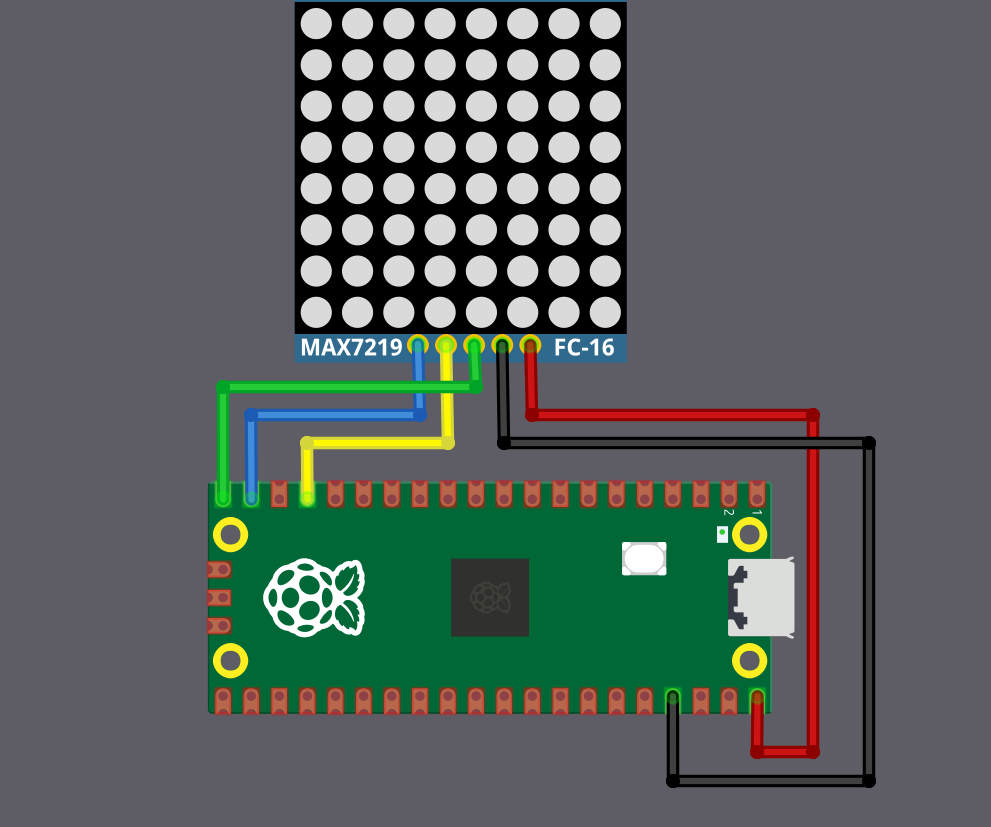
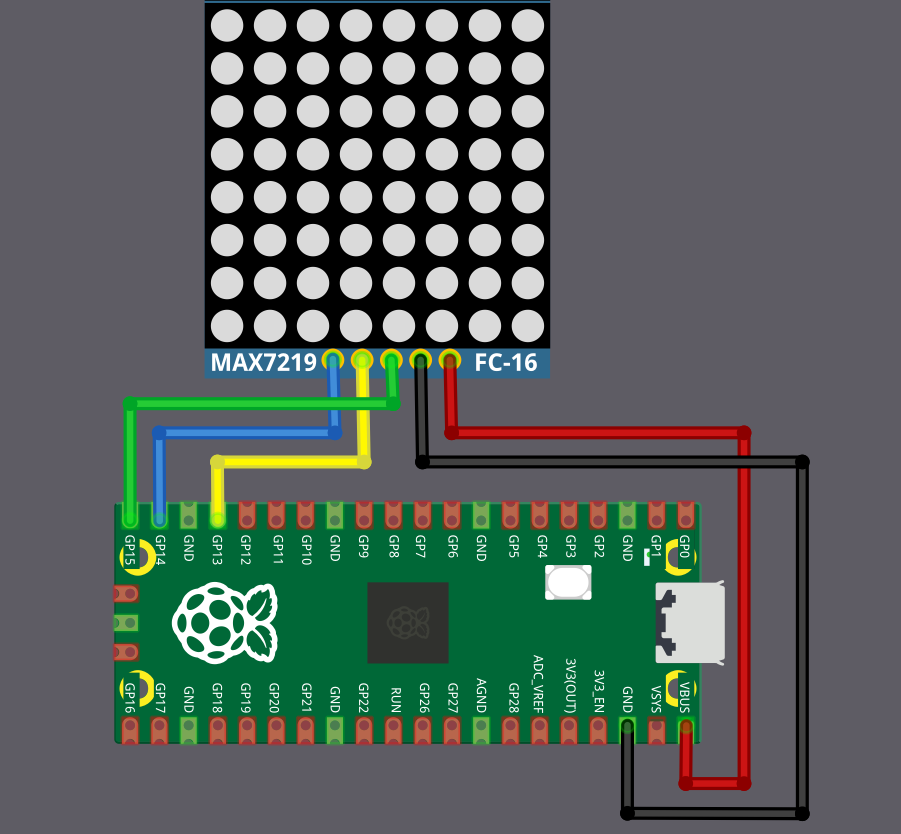
circuit update to include pico2 pin labels

diff --git a/src/sdcard/index.md b/src/sdcard/index.md
@@ -1,35 +1,35 @@
 # SD Card (SDC/MMC)
 
-In this section, we will explore how to use the SD Card reader module. Depending on your project, you can use the SD card to store collected data from sensors, save game ROMs and progress, or store other types of information.
-
+Sooner or later, you may want to store data that does not fit in flash memory. This could be sensor logs, configuration files, game assets, or anything else that needs to survive a power cycle. One of the most practical ways to do this is by using an SD card. In this section, we are going to learn how to use an SD card module with the Raspberry Pi Pico.
  
-## MMC
+## MMC (MultiMediaCard)
 
-The MultiMediaCard (MMC) was introduced as an early type of flash memory storage, preceding the SD Card. It was commonly used in devices such as camcorders, digital cameras, and portable music players. MMCs store data as electrical charges in flash memory cells, unlike optical disks, which rely on laser-encoded data on reflective surfaces.
+The MultiMediaCard (MMC) was introduced as an early type of flash memory storage, preceding the SD Card. It was commonly used in devices such as camcorders, digital cameras, and portable music players. 
+
+Like modern flash storage, MMC stores data as electrical charge in flash memory cells. This is very different from optical media such as CDs or DVDs, which store data as physical marks read by a laser.
+
+Although MMC cards themselves are mostly obsolete today, they are still relevant because SD cards inherited many ideas from MMC.
 
 ## SD (Secure Digital) Card
 
-The Secure Digital Card (SDC), commonly referred to as an SD Card, is an evolution of the MMC. SD Cards are widely used as external storage in electronic devices such as cameras, smartphones.  A smaller variant, the microSD card, is commonly used in smartphones, drones, and other devices.
+The Secure Digital Card, usually called an SD card, built on the ideas of MMC and expanded them. SD cards became extremely popular and are now used in cameras, embedded systems, and single board computers. There is a smaller variant called the microSD card that is typically used in microcontroller projects.
 
 <img style="display: block; margin: auto;" alt="SD cards" src="./images/sd-cards.png"/>
 <p style="text-align: center; font-size: smaller; margin-top: 5px;">
 Image credit: Based on <a href="https://en.wikipedia.org/wiki/File:SD_Cards.svg">SD card</a> by <a href="https://commons.wikimedia.org/wiki/User:Tkgd2007">Tkgd2007</a>, licensed under the GFDL and CC BY-SA 3.0, 2.5, 2.0, 1.0.
 </p>
 
-SD cards read and write data in blocks, typically 512 bytes in size, allowing them to function as block devices; this makes SD cards behave much like hard drives.
-
-## Protocol
-To communicate with an SD card, we can use the SD Bus protocol, SPI protocol, or UHS-II Bus protocol. The Raspberry Pi (but not the Raspberry Pi Pico) uses the SD Bus protocol, which is more complex than SPI. The full specs of the SD Bus protocol are not accessible to the public and are only available through the SD Association. We will be using the SPI protocol, as the Rust driver we will be using is designed to work with it.
+Internally, SD cards read and write data in fixed size blocks, typically 512 bytes; Because of this, data is accessed in blocks rather than as individual bytes. Filesystems such as FAT sit on top of these blocks and manage how files are stored and retrieved.
 
 ## Hardware Requirements
+
 We'll be using the Micro SD Card adapter module. You can search for either "Micro SD Card Reader Module" or "Micro SD Card Adapter" to find them.
  
 <img style="width: 450px;margin: auto;display: block; " alt="Micro SD Card adapter module" src="./images/micro-sd-card-adapter-reader-module.jpg"/>
  
-And of course, you'll need a microSD card. The SD card should be formatted with FAT32; Depending on your computer's hardware, you might need a separate SD card adapter (not the one mentioned above) to format the microSD card. Some laptops comes with direct microSD card support.
+And of course, you'll need a microSD card. The SD card should be formatted with FAT32; Depending on your computer, you may need a separate SD or USB adapter to format the card, since not all laptops have a microSD slot.
 
 ## References:
 
 - I highly recommend watching Jonathan Pallant's [talk](https://www.youtube.com/watch?v=-ewuFNKIAVI) at Euro Rust 2024 on writing an SD card driver in Rust.  He wrote the driver we are going to use (originally he created it to run MS-DOS on ARM). It is not intended for production systems.
 - If you want to understand how it works under the hood in SPI mode, you can refer to this article: [How to Use MMC/SDC](http://elm-chan.org/docs/mmc/mmc_e.html)
-- [Wikipedia](https://en.wikipedia.org/wiki/SD_card)

diff --git a/src/sdcard/circuit.md b/src/sdcard/circuit.md
@@ -1,9 +1,15 @@
-## Circuit
+# Connecting Micro SD Card Reader with Raspberry Pi Pico
 
-### microSD Card Pin Mapping for SPI Mode
+In this section, we are going to wire a microSD card reader module to the Raspberry Pi Pico using SPI mode.
 
-We'll focus only on the microSD card since that's what we're using. The microSD has 8 pins, but we only need 6 for SPI mode. You may have noticed that the SD card reader module we have also has only 6 pins, with markings for the SPI functions. The table below shows the microSD card pins and their corresponding SPI functions.
- 
+## microSD Card Pin Mapping for SPI Mode
+
+We will focus only on the microSD card itself, since that is what we are using. A microSD card has 8 physical pins, but in SPI mode only 6 of them are actually required.
+
+You may have noticed that most microSD card reader modules also expose only 6 pins. That is because those modules are already wired internally for SPI operation, and the unused pins are simply not brought out.
+
+The table below shows how the microSD card pins map to SPI signals.
+
 <div style="display: flex; align-items: center;gap:18px;">
   <img style="width: 180px;" alt="microSD Card Pin Diagram" src="./images/micro-sd-card-pin.png"/>
   <table>
@@ -50,10 +56,16 @@ We'll focus only on the microSD card since that's what we're using. The microSD 
   </table>
 </div>
 
-### Connecting the Raspberry Pi Pico to the SD Card Reader
+## Connecting the Raspberry Pi Pico to the SD Card Reader
 
-The microSD card operates at 3.3V, so using 5V to power it could damage the card. However, the reader module comes with an onboard voltage regulator and logic shifter, allowing it to safely be connected to the 5V power supply of the Pico.
- 
+Before connecting your SD card module, check its datasheet or product specifications for the input voltage requirements. SD card modules have different voltage requirements depending on their design.
+
+Verify that your module supports 3.3V input before connecting it to the Pico's 3V3(OUT) pin.
+
+If your module requires a higher voltage than 3.3V, you will need additional level shifting circuitry to protect the Pico's GPIO pins. The Raspberry Pi Pico's GPIO pins are not 5V tolerant and can be permanently damaged by 5V signals on the data lines.
+
+### Wiring Diagram
+
 <table>
   <thead>
     <tr>
@@ -104,7 +116,7 @@ The microSD card operates at 3.3V, so using 5V to power it could damage the card
       <td>MISO</td>
     </tr>
         <tr>
-      <td>5V</td>
+      <td>3.3V</td>
       <td style="text-align: center; vertical-align: middle; padding: 0;">
         <div class="wire red" style="width: 200px; margin: 0 auto;">
           <div class="male-left"></div>
@@ -126,4 +138,5 @@ The microSD card operates at 3.3V, so using 5V to power it could damage the card
   </tbody>
 </table>
 <br/>
+
 <img style="display: block; margin: auto;" alt="SD Card reader pico connection" src="./images/sd-card-reader-module-pico-connection.jpg"/>

diff --git a/src/max7219/connecting-led-matrix-with-pico.md b/src/max7219/connecting-led-matrix-with-pico.md
@@ -65,4 +65,4 @@ The MAX7219 display requires five connections to the Raspberry Pi Pico 2. This e
 </table>
 <br/>
 
-![Connecting Raspberry Pi Pico 2 with MAX7219 LED Matrix](./images/circuit-to-connect-max7219-led-matrix-with-raspberry-pi-pico.png)
+<img style="display: block; margin: auto;" alt="Connecting Raspberry Pi Pico 2 with MAX7219 LED Matrix" src="./images/circuit-to-connect-max7219-led-matrix-with-raspberry-pi-pico.png"/>
